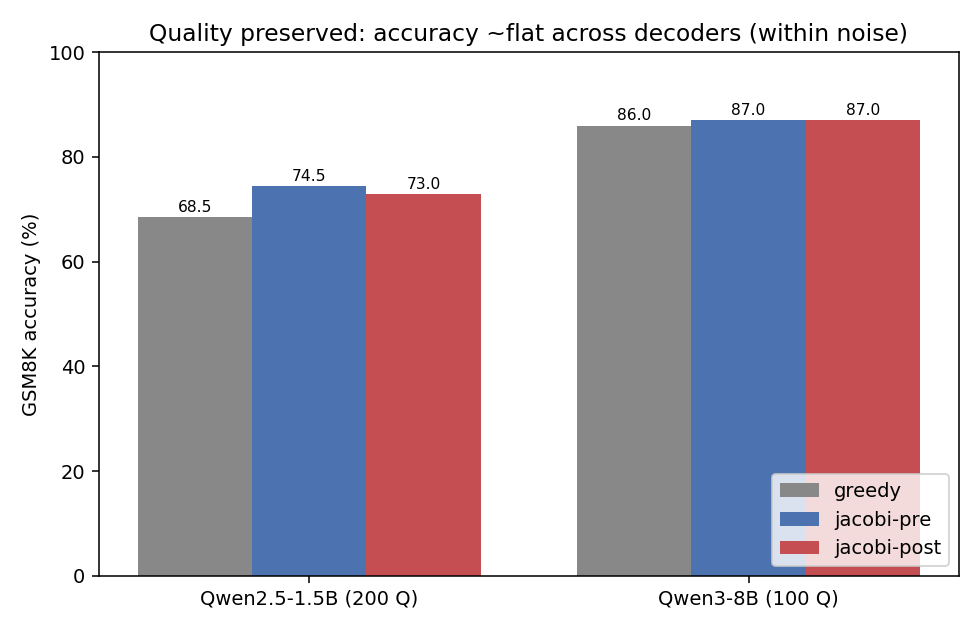
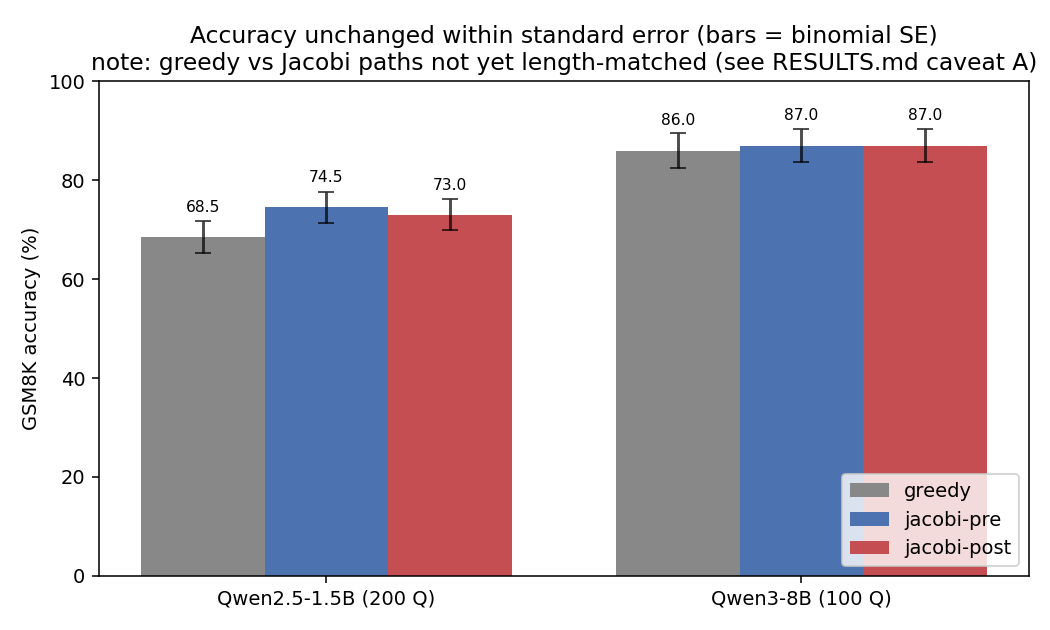
Address result-validity concerns: greedy-equivalence + honest framing
- eval_jacobi.py: cap Jacobi output to max_new_tokens. Blockwise Jacobi could
  overshoot by up to n-1 tokens, unfairly completing answers greedy truncated --
  a systematic bias that likely explains Jacobi-pre > greedy accuracy.
- check_greedy_equiv.py: new direct token-match test of the greedy-equivalence
  guarantee (--decoder cached/full, --dtype float16/float32) to disambiguate the
  length bug from fp16 path divergence.
- RESULTS.md: add Caveats & validity section -- (A) Jacobi-pre != greedy is not
  yet a clean baseline (length bug + fp16; cached decoder matched greedy exactly),
  (B) "within standard error" not "iso-accuracy" + note small eval sizes,
  (C) merge LoRA for wall-clock, (D) break-even is vs HF generate(). Label which
  run each speedup figure comes from (0.816/0.808 @ 200/100Q vs 0.768 @ 30Q).
- accuracy plot: add binomial SE bars + caveat in title.

diff --git a/cllm/check_greedy_equiv.py b/cllm/check_greedy_equiv.py
@@ -1,0 +1,103 @@
+"""
+Direct test of the Jacobi greedy-equivalence guarantee.
+
+For each prompt, generate with (1) greedy AR and (2) the Jacobi decoder(s), to the
+SAME token budget, and compare the output token sequences directly -- not just
+accuracy. Reports the fraction of generations that are token-identical and, when
+they differ, the first divergence position.
+
+This disambiguates the two candidate causes of Jacobi-pre != greedy:
+  - run with --dtype float32: if equivalence becomes (near) exact, the fp16
+    parallel-vs-incremental arithmetic path was the cause.
+  - --decoder cached vs full: the cached decoder shares greedy's KV-cache
+    arithmetic and should match far more closely than the full-recompute one.
+
+Usage:
+  python cllm/check_greedy_equiv.py --model Qwen/Qwen2.5-1.5B-Instruct \
+      --n 16 --num 50 --max-new-tokens 256 --decoder cached --dtype float16
+  # then repeat with --dtype float32 and/or --decoder full to compare.
+"""
+import argparse
+import torch
+from datasets import load_dataset
+from transformers import AutoModelForCausalLM, AutoTokenizer
+
+from jacobi import jacobi_generate, jacobi_generate_cached
+
+
+def build_prompt(tokenizer, question):
+    user = (f"{question}\nPlease reason step by step, and put your final answer "
+            f"within \\boxed{{}}.")
+    msgs = [{"role": "user", "content": user}]
+    try:
+        return tokenizer.apply_chat_template(
+            msgs, tokenize=False, add_generation_prompt=True, enable_thinking=False)
+    except TypeError:
+        return tokenizer.apply_chat_template(
+            msgs, tokenize=False, add_generation_prompt=True)
+
+
+def first_divergence(a, b):
+    """Index of first differing token, or -1 if one is a prefix of the other."""
+    for i, (x, y) in enumerate(zip(a, b)):
+        if x != y:
+            return i
+    return -1
+
+
+def main():
+    ap = argparse.ArgumentParser()
+    ap.add_argument("--model", default="Qwen/Qwen2.5-1.5B-Instruct")
+    ap.add_argument("--decoder", choices=["cached", "full"], default="cached")
+    ap.add_argument("--n", type=int, default=16)
+    ap.add_argument("--num", type=int, default=50)
+    ap.add_argument("--max-new-tokens", type=int, default=256)
+    ap.add_argument("--dtype", default="float16", help="float16 or float32")
+    ap.add_argument("--device", default="cuda:0")
+    args = ap.parse_args()
+
+    tok = AutoTokenizer.from_pretrained(args.model, trust_remote_code=True)
+    if tok.pad_token_id is None:
+        tok.pad_token = tok.eos_token
+    model = AutoModelForCausalLM.from_pretrained(
+        args.model, torch_dtype=getattr(torch, args.dtype),
+        trust_remote_code=True, device_map=args.device).eval()
+    gen = jacobi_generate_cached if args.decoder == "cached" else jacobi_generate
+
+    ds = load_dataset("openai/gsm8k", "main", split="test").select(range(args.num))
+
+    identical, div_positions, tok_agree, total_tok = 0, [], 0, 0
+    for i, ex in enumerate(ds):
+        ids = tok(build_prompt(tok, ex["question"]), return_tensors="pt").input_ids.to(args.device)
+        with torch.inference_mode():
+            g = model.generate(ids, max_new_tokens=args.max_new_tokens,
+                               do_sample=False, pad_token_id=tok.pad_token_id)
+        greedy_ids = g[0, ids.shape[1]:].tolist()
+        jac_ids, _ = gen(model, tok, ids, args.n, args.max_new_tokens, device=args.device)
+        jac_ids = jac_ids[:args.max_new_tokens]
+
+        L = min(len(greedy_ids), len(jac_ids))
+        same = sum(1 for a, b in zip(greedy_ids[:L], jac_ids[:L]) if a == b)
+        tok_agree += same; total_tok += L
+        d = first_divergence(greedy_ids, jac_ids)
+        if d == -1 and len(greedy_ids) == len(jac_ids):
+            identical += 1
+        else:
+            div_positions.append(d if d >= 0 else L)
+        if (i + 1) % 10 == 0:
+            print(f"  {i+1}/{args.num}  identical={identical}  "
+                  f"tok_agree={tok_agree/max(total_tok,1):.4f}")
+
+    print("\n==== GREEDY-EQUIVALENCE ====")
+    print(f"model/decoder : {args.model}  |  jacobi-{args.decoder}  |  {args.dtype}")
+    print(f"token-identical generations : {identical}/{args.num} "
+          f"({100*identical/args.num:.1f}%)")
+    print(f"mean token agreement        : {tok_agree/max(total_tok,1):.4f}")
+    if div_positions:
+        mp = sum(div_positions) / len(div_positions)
+        print(f"mean first-divergence pos   : {mp:.1f} tokens "
+              f"(of {args.max_new_tokens})  [{len(div_positions)} differing]")
+
+
+if __name__ == "__main__":
+    main()

diff --git a/cllm/results/make_plots.py b/cllm/results/make_plots.py
@@ -89,17 +89,23 @@ ax.set_title("Forward-pass cost: distillation cuts ~20% at both scales")
 ax.legend(); ax.set_ylim(0, 1.2)
 fig.tight_layout(); fig.savefig(f"{OUT}/fwd_per_token.png", dpi=140); plt.close(fig)
 
-# ---- Plot 2: accuracy -------------------------------------------------------
-fig, ax = plt.subplots(figsize=(7, 4.5))
+# ---- Plot 2: accuracy (with standard-error bars; eval N per scale) ----------
+NQ = {"Qwen2.5-1.5B (200 Q)": 200, "Qwen3-8B (100 Q)": 100}
+fig, ax = plt.subplots(figsize=(7.5, 4.5))
 for j, dec in enumerate(DECODERS):
     vals = [RESULTS[s][dec]["acc"] * 100 for s in scales]
-    bars = ax.bar(x + (j - 1) * w, vals, w, label=dec, color=COLORS[dec])
+    # binomial SE = sqrt(p(1-p)/N), in percent
+    ses = [100 * np.sqrt((RESULTS[s][dec]["acc"] * (1 - RESULTS[s][dec]["acc"]) / NQ[s]))
+           for s in scales]
+    bars = ax.bar(x + (j - 1) * w, vals, w, yerr=ses, capsize=4,
+                  label=dec, color=COLORS[dec], error_kw={"alpha": 0.7})
     for b, v in zip(bars, vals):
-        ax.text(b.get_x() + b.get_width() / 2, v + 0.4, f"{v:.1f}",
+        ax.text(b.get_x() + b.get_width() / 2, v + 4.5, f"{v:.1f}",
                 ha="center", va="bottom", fontsize=8)
 ax.set_xticks(x); ax.set_xticklabels(scales)
 ax.set_ylabel("GSM8K accuracy (%)")
-ax.set_title("Quality preserved: accuracy ~flat across decoders (within noise)")
+ax.set_title("Accuracy unchanged within standard error (bars = binomial SE)\n"
+             "note: greedy vs Jacobi paths not yet length-matched (see RESULTS.md caveat A)")
 ax.legend(loc="lower right"); ax.set_ylim(0, 100)
 fig.tight_layout(); fig.savefig(f"{OUT}/accuracy.png", dpi=140); plt.close(fig)
 

diff --git a/cllm/eval_jacobi.py b/cllm/eval_jacobi.py
@@ -117,6 +117,10 @@ def main():
             total_fwd += stats["forward_passes"]; total_tok += stats["tokens"]
             total_secs += stats.get("seconds", 0.0)
 
+        # Cap to the same token budget greedy gets: blockwise Jacobi can overshoot
+        # max_new_tokens by up to n-1 tokens, which would unfairly let it complete
+        # answers greedy truncates. Trim so the two paths use an equal budget.
+        new_ids = new_ids[:args.max_new_tokens]
         text = tok.decode(new_ids, skip_special_tokens=True)
         if extract_pred(text) == extract_gold(ex["answer"]):
             correct += 1

diff --git a/cllm/results/RESULTS.md b/cllm/results/RESULTS.md
@@ -4,16 +4,27 @@ Jacobi decoding + consistency distillation ported to Qwen (first-principles port
 [Consistency LLM](https://github.com/hao-ai-lab/Consistency_LLM)), evaluated on GSM8K.
 All runs on the dgx-1 box (V100-16GB, fp16). Code: [`cllm/`](../).
 
+> **Read the "Caveats & validity" section before citing any number.** Two results
+> are robust (forward-pass reduction; merged-LoRA wall-clock speedup). The
+> *accuracy* differences between greedy and Jacobi are **not** yet a clean
+> apples-to-apples comparison — see caveat (A).
+
 ## TL;DR
 
-1. **Consistency distillation cuts forward-passes-per-token ~20% at iso-accuracy** — replicated at two scales (Qwen2.5-1.5B and Qwen3-8B).
-2. **That converts to ~1.54× real wall-clock speedup** with the KV-cache Jacobi decoder — *if the LoRA adapter is merged* (unmerged LoRA is actually slower).
+1. **Consistency distillation cuts forward-passes-per-token ~20%** (post = 0.816 at
+   1.5B / 0.808 at 8B) — replicated at two scales. Hardware-independent metric.
+2. **That converts to ~1.54× wall-clock speedup** with the KV-cache decoder *on the
+   merged distilled model* (unmerged LoRA is slower — see caveat C).
+3. Accuracy is **unchanged within standard error**, but the eval sizes are small and
+   the greedy-vs-Jacobi paths were not yet matched — caveat (A).
 
 ---
 
-## 1. Three-way comparison (greedy vs Jacobi pre/post distillation)
+## 1. Forward-pass reduction (the robust algorithmic result)
 
 Metric = `fwd_per_token` (forward passes per generated token; greedy = 1.0, lower = faster).
+Source: full three-way runs, [`run_1p5b.log`](run_1p5b.log) (200 Q) and
+[`run_8b.log`](run_8b.log) (100 Q), using the **full-recompute** Jacobi decoder.
 
 | Model | Decoder | Accuracy | fwd_per_token |
 |-------|---------|----------|---------------|
@@ -24,46 +35,86 @@ Metric = `fwd_per_token` (forward passes per generated token; greedy = 1.0, lowe
 | | Jacobi pre | 87.0% | 1.010 |
 | | **Jacobi post** | 87.0% | **0.808** |
 
-- Plot: [`plots/fwd_per_token.png`](plots/fwd_per_token.png) — ~20% reduction at both scales.
-- Plot: [`plots/accuracy.png`](plots/accuracy.png) — accuracy flat within noise (SE ≈ 3–5%).
-- Logs: [`run_1p5b.log`](run_1p5b.log), [`run_8b.log`](run_8b.log).
-- Adapters: `cllm-1p5b-adapter/`, `cllm-8b-adapter/` (LoRA r128).
+- Plot: [`plots/fwd_per_token.png`](plots/fwd_per_token.png).
+- Plot: [`plots/accuracy.png`](plots/accuracy.png).
+- The ~20% figure is the forward-pass reduction (post vs greedy) **in these runs**.
 
 ## 2. Wall-clock speedup (KV-cache decoder)
 
-Same merged distilled Qwen2.5-1.5B weights, greedy vs `jacobi_generate_cached`, 30 Q:
+Same **merged** distilled Qwen2.5-1.5B weights, greedy vs `jacobi_generate_cached`,
+30 Q. Source: cached-decoder validation (`test_merged.log` / `test_cached.log`,
+captured during the runs).
 
 | Decoder | Accuracy | fwd_per_token | tokens/sec |
 |---------|----------|---------------|------------|
 | greedy (merged) | 66.7% | 1.000 | 16.54 |
-| jacobi-cached (UNMERGED LoRA) | 66.7% | 0.772 | 11.96 ← slower! |
+| jacobi-cached (UNMERGED LoRA) | 66.7% | 0.772 | 11.96 ← *slower* |
 | **jacobi-cached (merged)** | 66.7% | 0.768 | **25.46** |
 
-**≈1.54× wall-clock at identical accuracy.** Plot: [`plots/wallclock_tokens_per_sec.png`](plots/wallclock_tokens_per_sec.png).
+**≈1.54× wall-clock at identical accuracy** (20/30 both). Note this is the **30-Q
+cached run**, where post = 0.768 (a 23% forward-pass reduction) — a *different run*
+from the 0.816/0.808 numbers in §1 (200/100 Q, full-recompute decoder). Both are
+legitimate; they are simply different eval sizes and decoders.
+Plot: [`plots/wallclock_tokens_per_sec.png`](plots/wallclock_tokens_per_sec.png).
 
-- **Gotcha:** an unmerged LoRA adds a per-forward matmul tax that swallows the
-  forward-pass savings — always `--merge-lora` for inference.
-- **Caveat:** the greedy baseline is HF `generate()` (per-step overhead), so part of
-  the 1.54× is lean-loop-vs-`generate`. The hardware-independent claim is the
-  23% forward-pass reduction; break-even on V100/1.5B is fwd_per_token < ~0.84.
-
-## 3. Training (consistency-distillation loss)
+## 3. Training loss
 
 Plot: [`plots/training_loss.png`](plots/training_loss.png). Per-step loss is noisy
 *by design* (the global term is evaluated at a random Jacobi-trajectory point each
-step), but the rolling mean trends down — clearest on the 8B run (3.32→1.10 across
-1k-step samples).
+step); the rolling mean trends down, clearest on 8B (3.32→1.10 across 1k-step samples).
 
-## Reproduce
+---
+
+## Caveats & validity
+
+**(A) Jacobi-pre accuracy ≠ greedy — not yet a clean baseline.** Jacobi with greedy
+verification should be token-identical to greedy AR, so Jacobi-pre accuracy should
+*match* greedy, not differ (68.5 vs 74.5 at 1.5B; 86 vs 87 at 8B). Two causes
+identified, both now addressed in code but **not yet re-measured** (box offline):
+  1. *Length asymmetry (systematic, favors Jacobi):* blockwise Jacobi overshot
+     `max_new_tokens` by up to n−1 tokens, occasionally completing a `\boxed{}` that
+     greedy truncated at the 512 cap. Fixed: [`eval_jacobi.py`](../eval_jacobi.py)
+     now trims Jacobi output to the same budget. This likely explains the consistent
+     *direction* (Jacobi better at both scales).
+  2. *fp16 path divergence (either direction):* the §1 runs used the full-recompute
+     decoder (parallel block forward), whose fp16 arithmetic differs from greedy's
+     incremental KV-cache path. Evidence: the **cached** decoder, which shares
+     greedy's arithmetic, gave *identical* accuracy in §2 (66.7% = 66.7%).
+  → To verify: [`cllm/check_greedy_equiv.py`](../check_greedy_equiv.py) measures
+     token-level agreement directly; run it with `--dtype float32` and
+     `--decoder cached` to confirm (near-)exact equivalence.
+
+**(B) "Iso-accuracy" overstates it.** Accuracy moves a few points in both directions
+(1.5B greedy 68.5 vs post 73.0). At 30–200 questions, SE ≈ 3–5% (≈8.6% at 30 Q), so
+these are **unchanged within standard error**, not literally equal. Eval sizes are
+small; larger evals would tighten this.
+
+**(C) Always `--merge-lora` for wall-clock.** Unmerged LoRA adds a per-forward matmul
+tax that makes the distilled model *slower* despite fewer forward passes (11.96 vs
+25.46 tok/s).
+
+**(D) Break-even basis.** The "fwd_per_token < ~0.84 to win wall-clock" figure is
+measured as **lean Jacobi-cached loop vs HF `generate()` greedy**. HF `generate()`
+carries per-step Python overhead, so this break-even is favorable to Jacobi; against
+a hand-written lean greedy loop the bar would be lower (harder). The robust,
+overhead-free claim is the **forward-pass reduction**, not the absolute tok/s ratio.
+
+---
+
+## Reproduce / verify
 
 ```bash
-python cllm/results/make_plots.py        # regenerates plots/ from the logs + numbers
+python cllm/results/make_plots.py                 # regenerate plots from logs + numbers
+# greedy-equivalence check (run when the box is back):
+python cllm/check_greedy_equiv.py --decoder cached --dtype float32 --num 50
+python cllm/check_greedy_equiv.py --decoder full   --dtype float16 --num 50
 ```
 
 Full pipeline commands in [`cllm/README.md`](../README.md).
 
-## Not completed
+## Not completed (box went offline)
 
-A widening run (2000 trajectories × 2 epochs at n=16, aimed at pushing
-fwd_per_token below ~0.5 for a larger wall-clock margin) was launched but lost when
-the box went offline mid-run. Rerun when the box is back.
+- **Re-run the three-way eval with the cached decoder + matched length budget** to
+  present a clean greedy-equivalent Jacobi-pre baseline (caveat A).
+- **Widening run** (2000 trajectories × 2 epochs at n=16) — aimed at pushing
+  fwd_per_token below ~0.5 for a larger wall-clock margin; lost mid-run.
